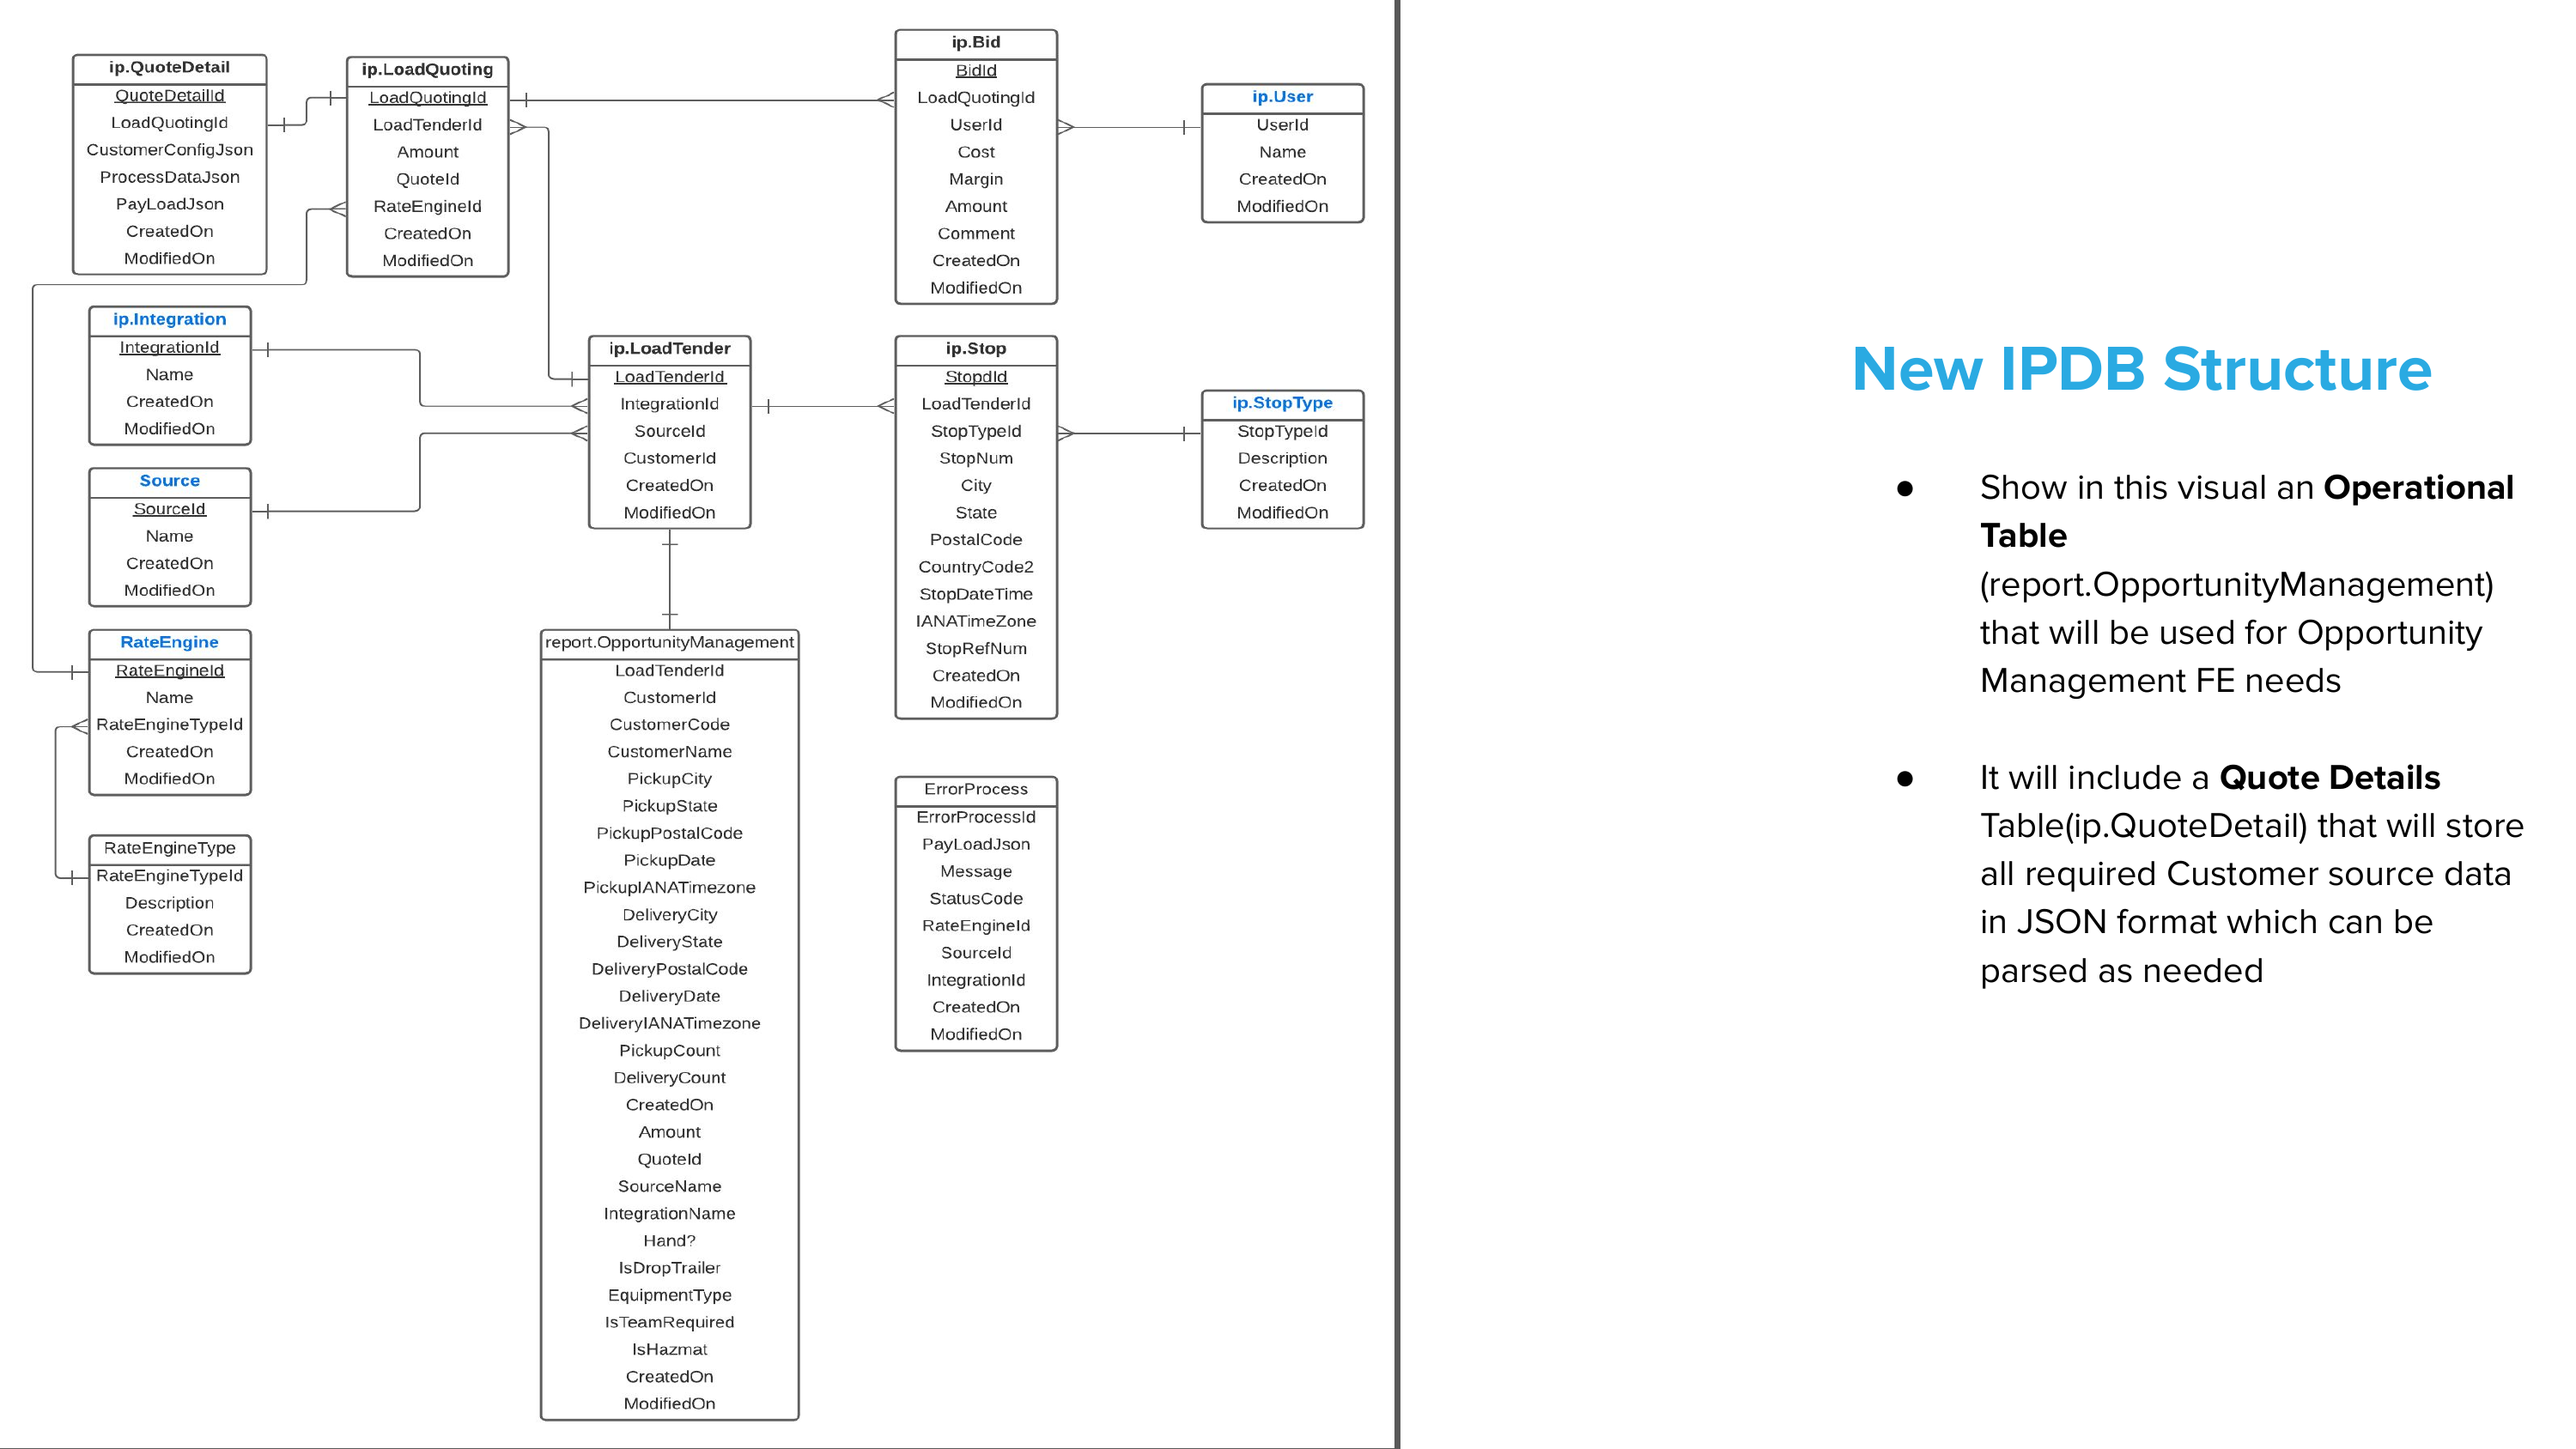
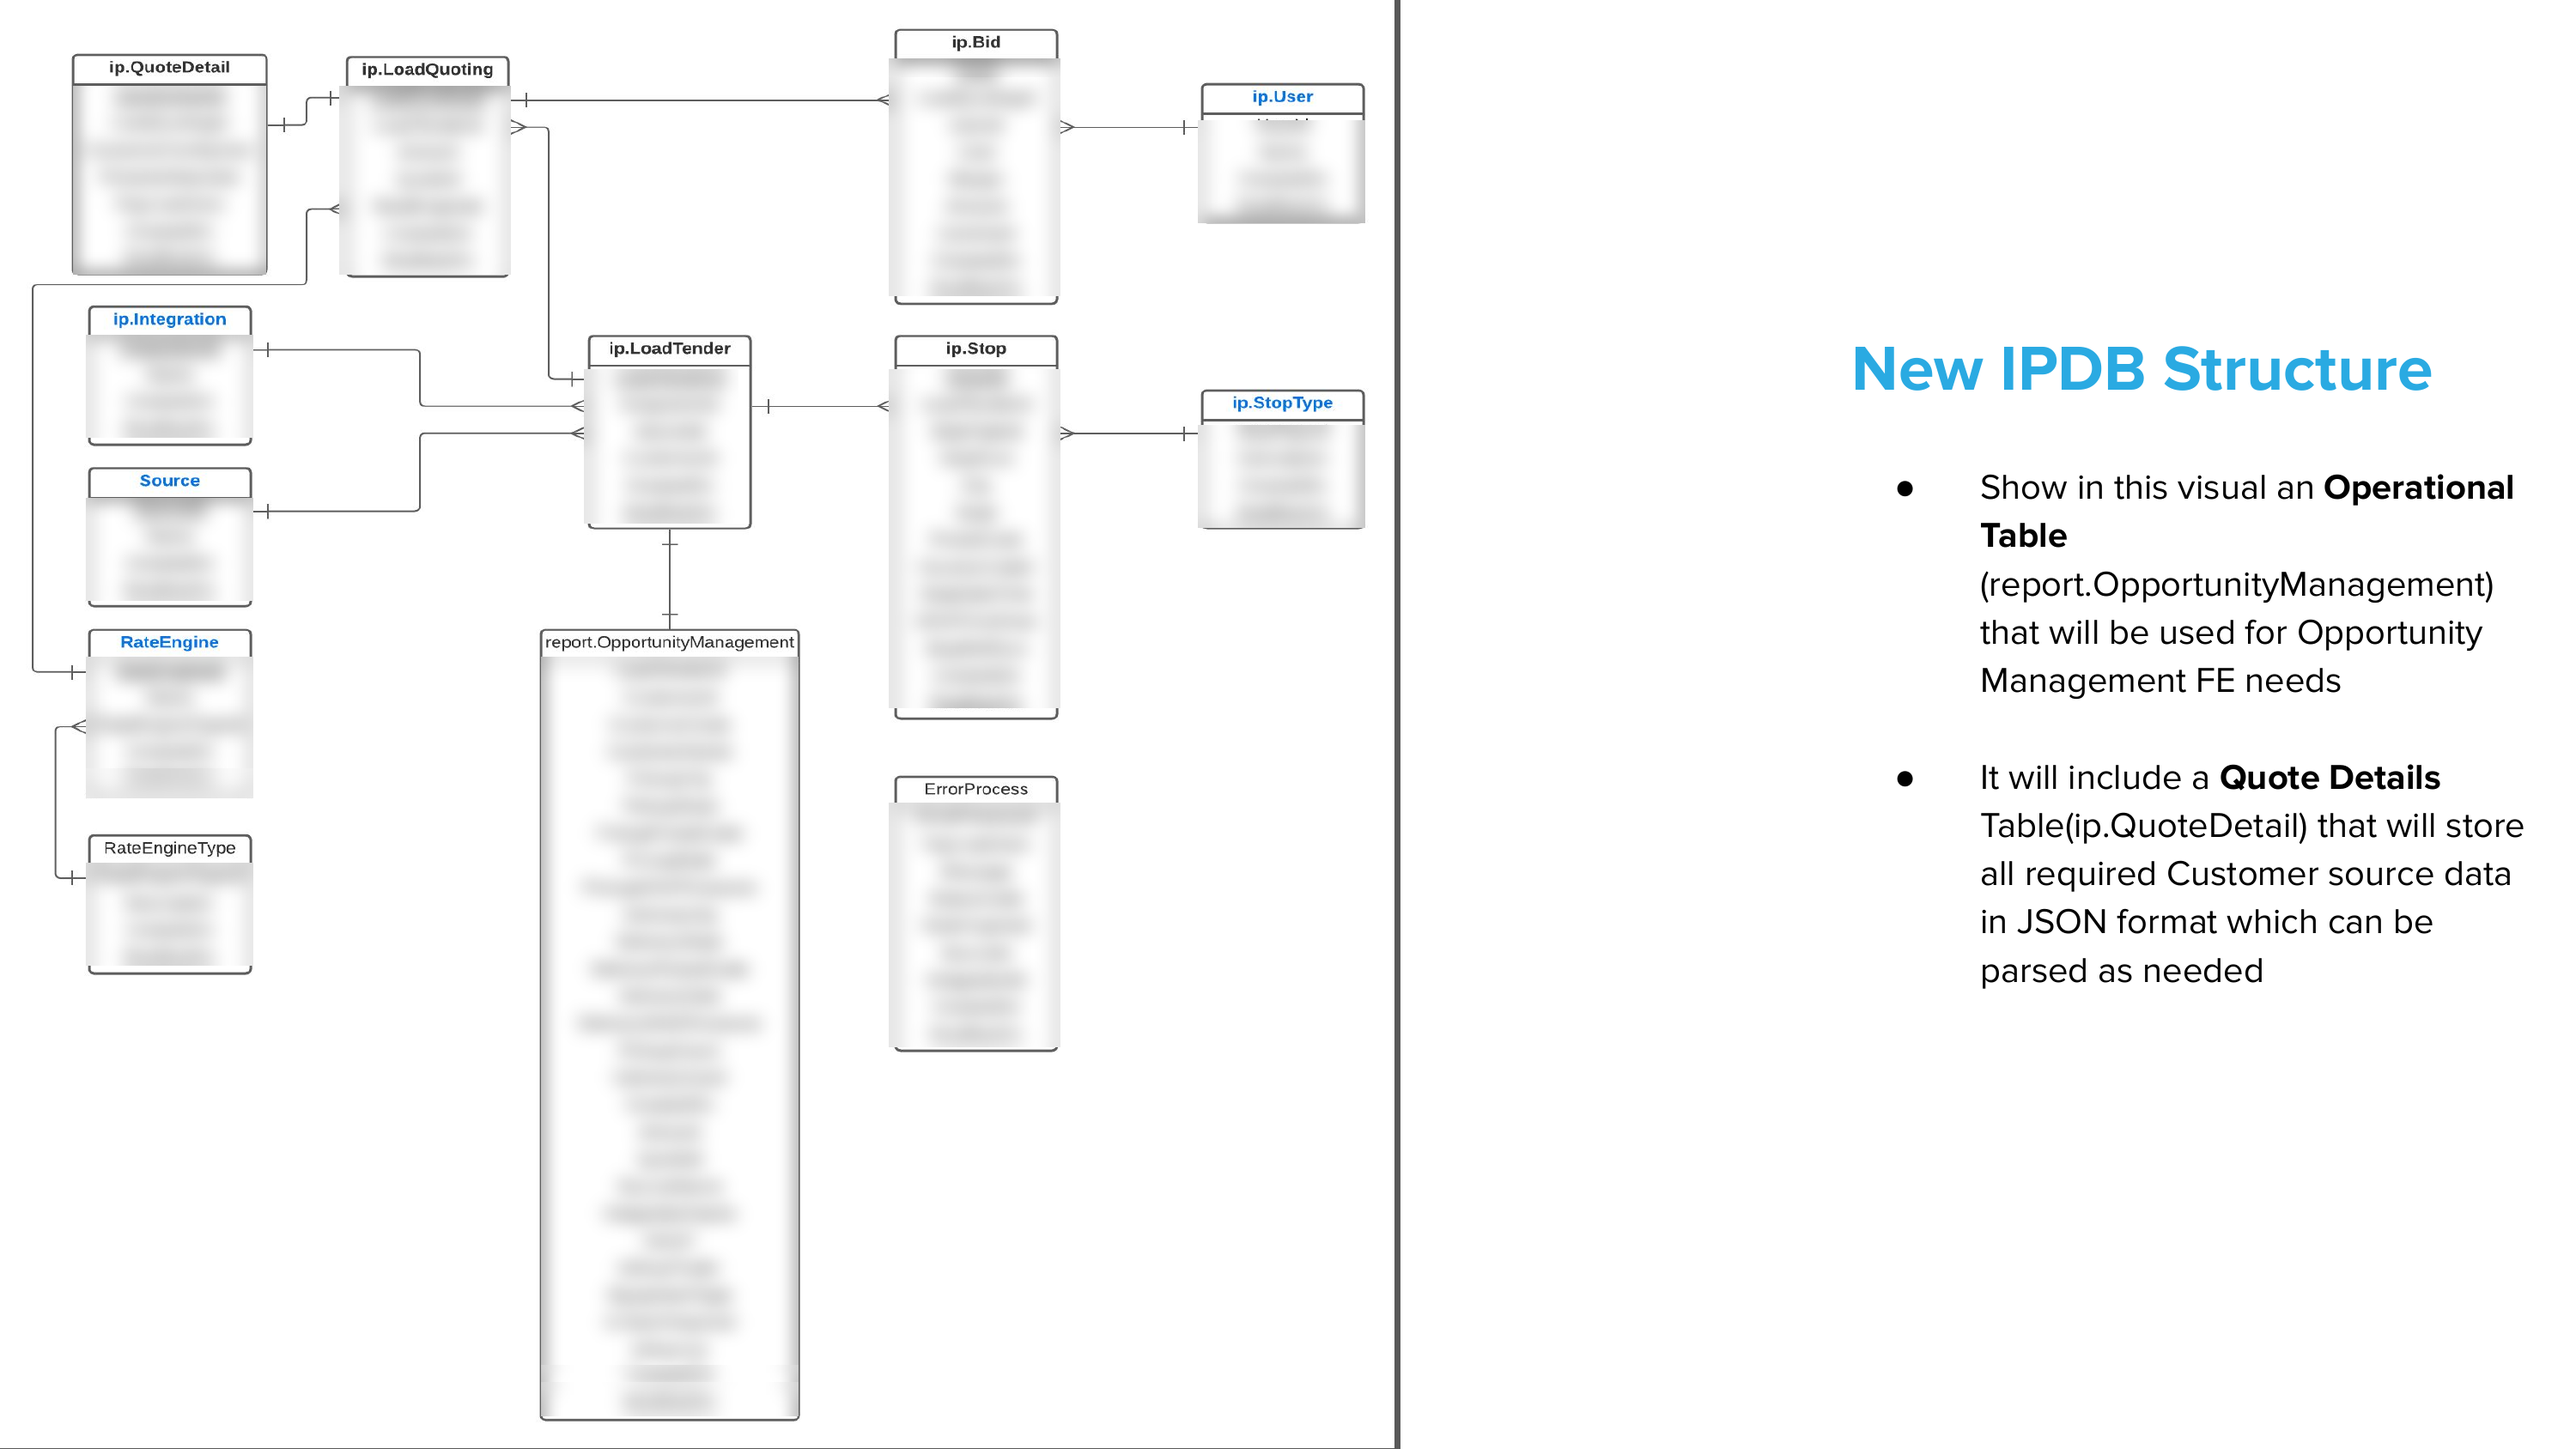
Remove Quote Activity Board section, blur pricing figures, redact schema columns
Dropped the dedicated Quote Activity Board section and image (folded
the mention back into "Getting more quotes out" as prose) since the
artifact wasn't landing well visually.

Blurred every dollar figure, rate, and percentage in the Rate API
config and Spot Quote Tool screenshots (previously left as
"illustrative" once customer names were removed; now blurred outright
per request). Blurred every table's column list in the database
schema diagram, keeping only table names and relationships visible.

Also trimmed the About page's "Off the clock" paragraph down to just
the family line, dropping the running/gym/football/nature list.

diff --git a/src/data/projects.ts b/src/data/projects.ts
@@ -204,20 +204,11 @@ export const projects: CaseStudy[] = [
       },
       {
         heading: 'Getting more quotes out',
-        body: "None of it mattered if reps couldn't actually get a quote out the door. The Spot Quote Tool let reps generate and log quotes manually when they needed to, and we rebuilt its layout around what a rep actually needed first, cost history, market capacity, and risk, instead of a wall of numbers. More quotes moving through the system, faster, is what actually drove the revenue.",
+        body: "None of it mattered if reps couldn't actually get a quote out the door. The Spot Quote Tool let reps generate and log quotes manually when they needed to, and we rebuilt its layout around what a rep actually needed first, cost history, market capacity, and risk, instead of a wall of numbers. A Quote Activity Board gave account teams a searchable log of every quote, automated or manual, so Client Solutions could pull one up and make an adjustment instead of digging through email threads to find what it was based on. More quotes moving through the system, faster, is what actually drove the revenue.",
         artifact: {
           src: '/work/pricing-spot-quote-before-after.png',
           alt: 'A before and after comparison of the Spot Quote Tool: the original layout is dense and hard to scan, the redesigned layout leads with rate calculator, cost history, and market capacity.',
           caption: 'The Spot Quote Tool before and after: same data, reordered around what a rep needs first.',
-        },
-      },
-      {
-        heading: 'Closing the loop with Client Solutions',
-        body: "A saved quote still needed a human to review it before it turned into a real rate. The Quote Activity Board gave account teams a searchable log of every quote, automated or manual, with a details panel showing the load, pricing, and surcharge breakdown behind it. Client Solutions could pull that up, make an adjustment, and hand it back, instead of digging through email threads to find what a quote was even based on.",
-        artifact: {
-          src: '/work/pricing-quote-activity-board.png',
-          alt: 'The Quote Activity Board, a searchable table of quotes with an expandable details panel showing load, pricing, and surcharge information for a selected quote.',
-          caption: 'The Quote Activity Board: every quote logged and searchable, with the full pricing breakdown one click away.',
         },
       },
       {

diff --git a/src/pages/AboutPage.tsx b/src/pages/AboutPage.tsx
@@ -41,9 +41,6 @@ export function AboutPage() {
             <p className="section-label mb-5">Off the clock</p>
             <p className="font-serif text-[17px] sm:text-lg text-[var(--color-text-secondary)] leading-[1.7]">
               Away from the screen, most of my time goes to my young family.
-              Outside of that, I&apos;m usually running, in the gym, watching
-              more college football than I probably should, or out in
-              nature whenever I can get there.
             </p>
           </motion.section>
         </div>
